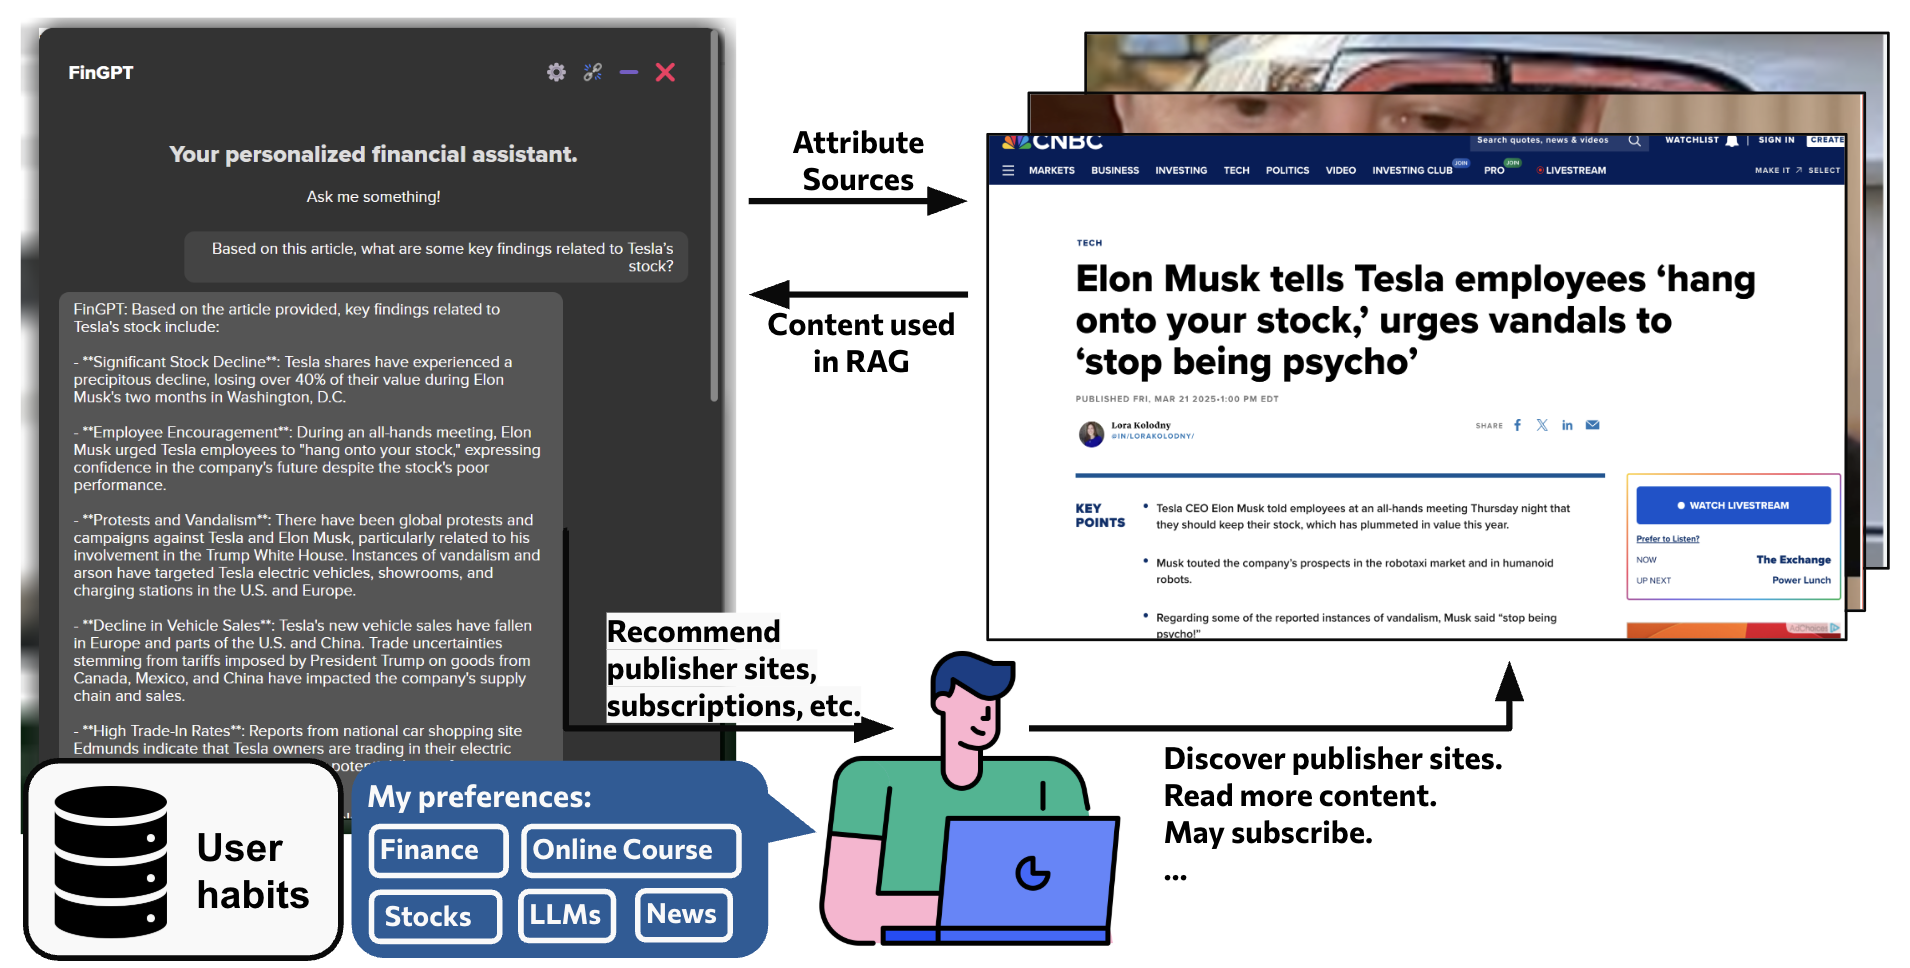
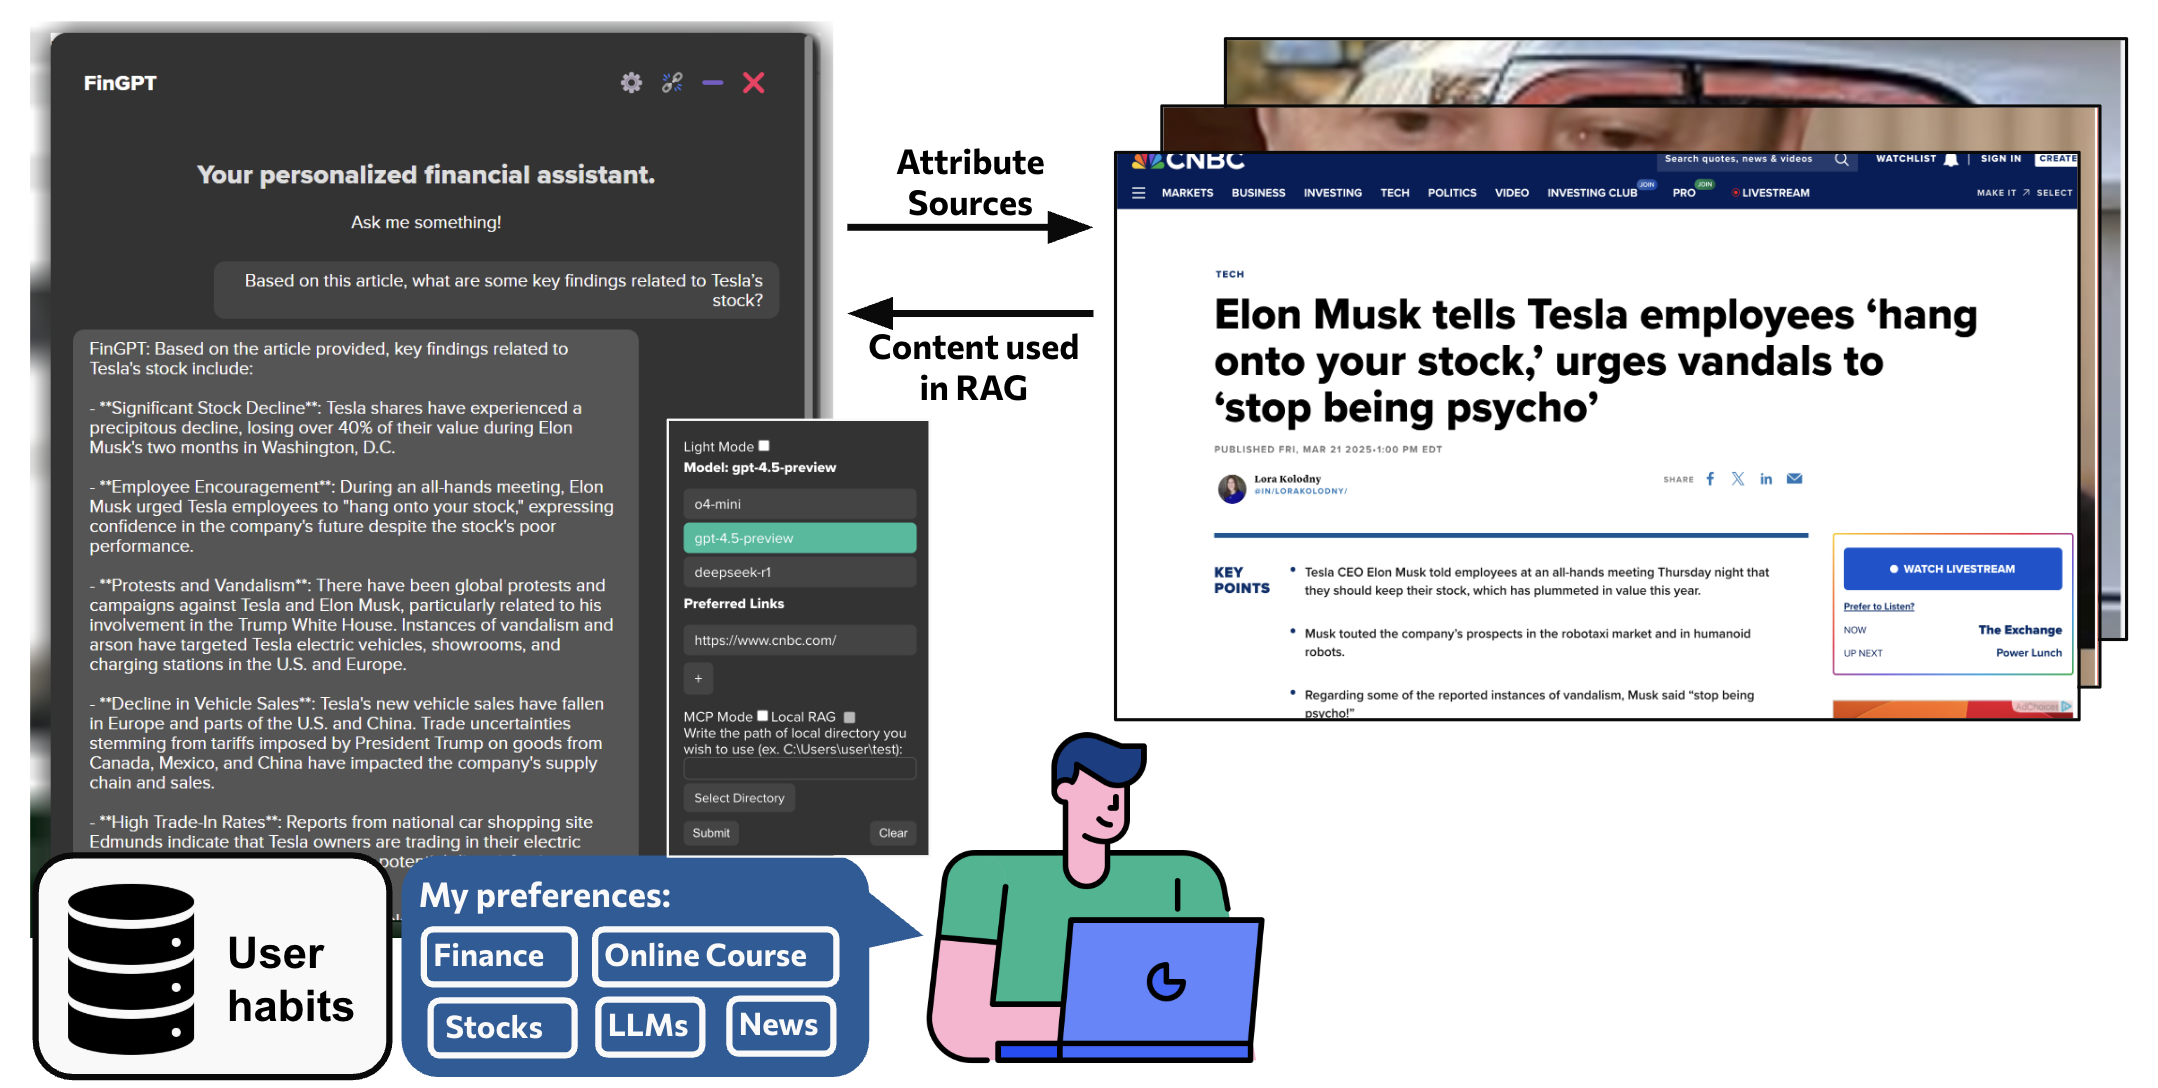
update trading agent

diff --git a/docs/source/demos_of_finagents/trading_agent.rst b/docs/source/demos_of_finagents/trading_agent.rst
@@ -1,12 +1,11 @@
 ========================================================================
 Trading Agent
 ========================================================================
+In investing, generating alpha signals is crucial for making informed decisions. However, individual investors typically lack the time, resources, or professional knowledge to extract actionable signals from vast amounts of financial information. Imagine being able to ask Warren Buffett for value-investing advice, consult a risk manager to flag red flags in SEC filings, or engage a sentiment analyst to interpret the tone of market news — all instantly and on demand. **AI agents** make this possible. These LLM-powered agents, such as Warren Buffett agent, sentiment analysis agent, and risk management agent, emulate a professional investment team — personalized and accessible to any investor.
 
-In financial markets, decision-making depends not only on numerical data (e.g., price, volume, market indicators), but also on unstructured financial documents (e.g., financial news and SEC filings). The structured time-series numerical data is important for quantitative trading to model market dynamics. Financial documents contain valuable information about market sentiment, risk, and events. LLMs have demonstrated strong capabilities in processing and understanding unstructured text, making them promosing for extracting signals from financial documents.
+Here we show a trading agent, which uses LLM-generated signals from financial news and Financial Reinforcement Learning (FinRL) to enhance trading strategies.
 
-The trading agent integrates LLM-generated signals from financial news in Financial Reinforcement Learning (FinRL) to enhance trading strategies.
-
-  - **LLM for Seeking Alpha**. LLMs are used to analyze financail documents and generate  trading signals, such as sentiment scores and risk levels.
+  - **LLM for Seeking Alpha**. LLMs are used to analyze financial news and generate  trading signals, such as sentiment scores and risk levels.
   - **Stock Trading with RL**. These extracted signals are then integrated into the FinRL environment. The trading agent learns optimal trading strategies from both numerical and textual data.
 
 LLM for Seeking Alpha
